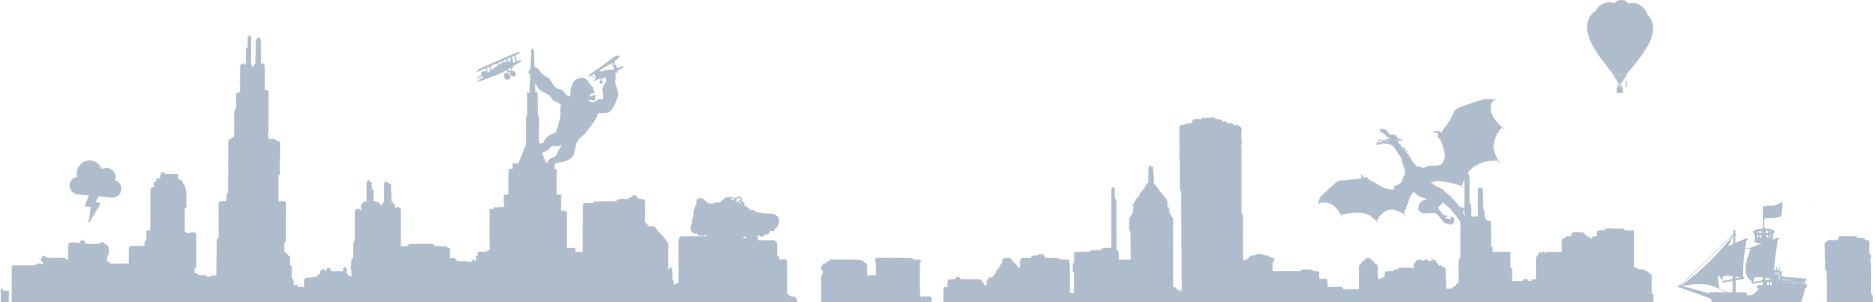
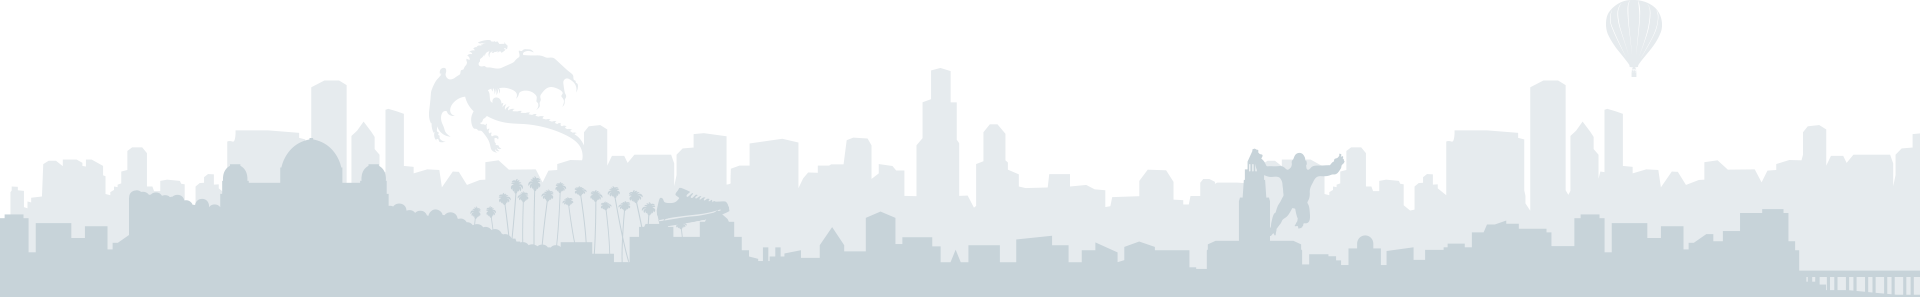
- Timer - ICO 영역 디자인 개선 (배경이미지)

diff --git a/index.html b/index.html
@@ -43,6 +43,7 @@
         gtag('config', 'UA-112022406-1');
     </script>
     <script type="text/javascript" src="js/vendor/jquery-3.2.1.min.js"></script>
+    <script type="text/javascript" src="js/vendor/easytimer.min.js"></script>
     <!--[if lt IE 9]>
     <script type="text/javascript" src="js/vendor/html5shiv.min.js"></script>
     <![endif]-->
@@ -113,6 +114,36 @@
                     <div class="ico-subtitle">
                         Only whitelisted users after KYC process can participate in the Pre ICO of the Mossland.
                     </div>
+                    <ul class="timer">
+                        <li>
+                            <div class="timer-title">
+                                DAYS
+                            </div>
+                            <div class="timer-str" id="timer-days">0</div>
+                        </li>
+                        <li>
+                            <div class="timer-title">
+                                HOURS
+                            </div>
+                            <div class="timer-str" id="timer-hours">0</div>
+                        </li>
+                        <li>
+                            <div class="timer-title">
+                                MINUTES
+                            </div>
+                            <div class="timer-str" id="timer-minutes">0</div>
+                        </li>
+                        <li>
+                            <div class="timer-title">
+                                SECONDS
+                            </div>
+                            <div class="timer-str" id="timer-seconds">0</div>
+                        </li>
+                    </ul>
+
+                    <script type="text/javascript">
+                        mosstimer(2018,1,29);
+                    </script>
                     <div>
                         <a class="btn1" href="#" id="btn-whitelist">Add me to the Whitelist</a>
                         <div class="upcomming-subtitle">
@@ -1028,7 +1059,6 @@
                     <h1 class="press-title stitle">Press</h1>
                     <div class="press-subtitle">
                         News about Mosscoin and Reality Reflection. <br />
-                        Lorem Ipsum is simply dummy text of the printing and typesetting industry.
                     </div>
                 </header>
                 <div class="press-con">

diff --git a/css/style.css b/css/style.css
@@ -66,14 +66,14 @@ li {
 
 
 .ico {
-    height: 600px;
+    padding: 60px 0;
     background: #ebebeb url('../img/bg_ico.png') center bottom repeat-x;
+    background-size: 100% auto;
 }
 
 .ico-page {
     display: none;
     text-align: center;
-    padding-top: 190px;
 }
 
 #upcomming .ico-title {
@@ -83,13 +83,13 @@ li {
 }
 
 #upcomming .ico-title > strong{
-    color: #b72c2c;
+    color: #00b1ce;
     font-weight: 900;
 }
 
 #upcomming .ico-subtitle {
-    font-size: 1.2em;
-    margin-bottom: 60px;
+    font-size: 1.1em;
+    margin-bottom: 30px;
     font-weight: 300;
 }
 
@@ -104,15 +104,15 @@ li {
     text-align: center;
     line-height: 72px;
     padding: 0 90px;
-    background: #b72c2c;
+    background: #00b1ce;
     color: #fff;
     border-radius: 35px;
     font-weight: 300;
-    box-shadow: 4px 4px 0 rgba(0,0,0,0.17);
+    /*box-shadow: 4px 4px 0 rgba(0,0,0,0.17);*/
 }
 
 .btn1:hover {
-    background: #981b1b;
+    background: #29bbd3;
 }
 
 .upcomming-subtitle {
@@ -203,7 +203,7 @@ ul.features-list > li:last-child{
 
 .features-desc {
     color: #888;
-    font-size: 1.25em;
+    font-size: 1.15em;
     font-weight: 300;
     line-height: 1.5em;
 }
@@ -1110,4 +1110,32 @@ ul.press-primary > li a:hover .pressitem-desc{
     color: #999;
     font-weight: 300;
     margin-top: 25px;
+}
+
+.timer {
+    width: 50%;
+    overflow: hidden;
+    margin: 0 auto 80px;
+}
+
+.timer li{
+    width: 23%;
+    float: left;
+    padding: 20px;
+    margin: 0 1%;
+    background: rgba(255,255,255,0.6);
+
+
+}
+
+.timer-title {
+    font-size: 0.8em;
+    color: #728294;
+    margin-bottom: 4px;
+}
+
+.timer-str {
+    font-size: 60px;
+    font-weight: 100;
+    line-height: 1;
 }

diff --git a/js/da.js b/js/da.js
@@ -1,3 +1,19 @@
+function mosstimer(_year,_month,_day){
+
+    var timer = new Timer();
+    var today = new Date();
+    var thedate = new Date(_year,_month-1,_day);
+    var diffdate = thedate-today;
+    var sec  = diffdate / 1000;
+    timer.start({countdown: true, startValues: {seconds: sec}});
+    timer.addEventListener('secondsUpdated', function (e) {
+        var time =  timer.getTimeValues();
+        $("#timer-days").html(time.days);
+        $("#timer-hours").html(time.hours);
+        $("#timer-minutes").html(time.minutes);
+        $("#timer-seconds").html(time.seconds);
+    });
+}
 
 
 $(function(){
@@ -46,5 +62,6 @@ $(function(){
         window.open('https://eepurl.com/dgCDUT');
         return false;
     });
+
 
 });

diff --git a/js/motion.js b/js/motion.js
@@ -855,8 +855,8 @@ var moss_lite = function(){
 if( /Android|webOS|iPhone|iPad|iPod|BlackBerry|IEMobile|Opera Mini/i.test(navigator.userAgent) ) {
     moss_lite();
 } else {
-    moss();
-    //moss_lite();
+    //moss();
+    moss_lite();
 }
 
 

diff --git a/css/responsive.css b/css/responsive.css
@@ -68,12 +68,12 @@
     }
 
     .ico {
-        height: 400px;
+        /*height: 400px;*/
         background-size: 100%;
     }
 
     .ico-page {
-        padding-top: 80px
+        /*padding-top: 80px*/
     }
 
     .whitepaper-title-wrap {
